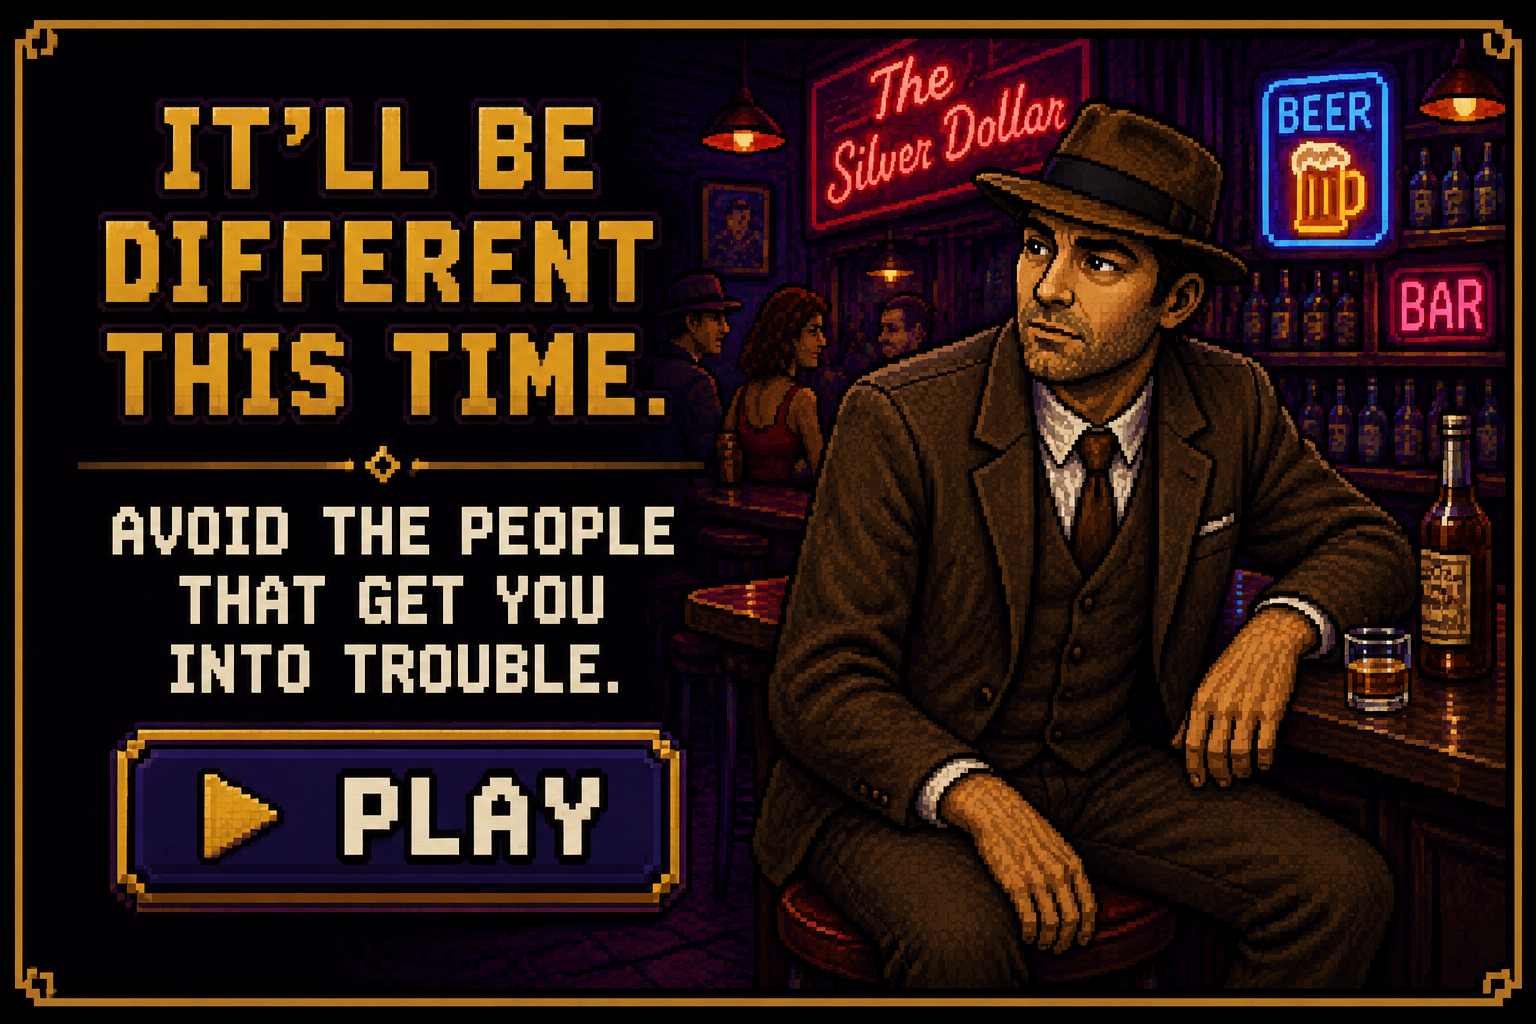
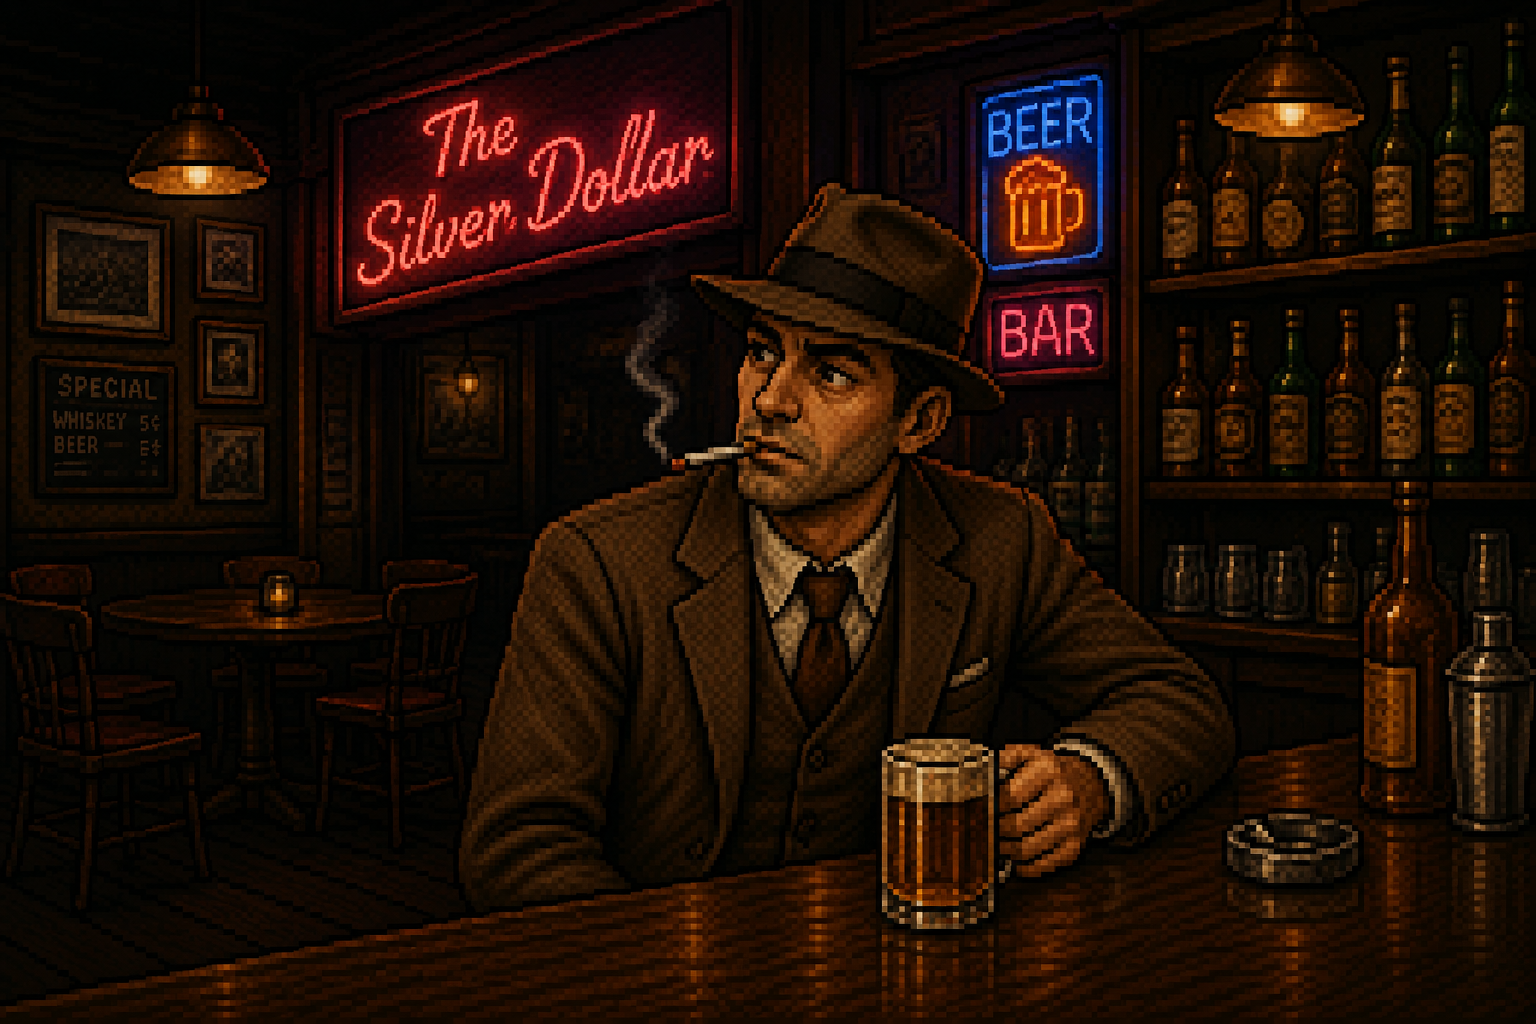
Added Chapter 2 and seamless chapter transitions

diff --git a/game.js b/game.js
@@ -36,11 +36,76 @@
   const currentChapter =
     engine.getChapter(chapterIndex);
 
+  // =====================================
+  // CHAPTER 2 STORY CARDS
+  // Edit this text whenever you want.
+  // =====================================
+
+  if (chapterNumber === 2 && currentChapter) {
+    currentChapter.cards = [
+      {
+        title: "HERE WE GO AGAIN",
+        image: "assets/cards/chapter2-card1.png",
+        text:
+          "Bill's plan didn't work.\n\n" +
+          "Beer turned into uncontrolable drinking,\n" +
+          "and avoiding certain people\n" +
+          "didn't change a thing.\n\n" +
+          "Now Lois is making another call for help."
+      },
+
+      {
+        title: "THE BELLADONNA TREATMENT",
+        image: "assets/cards/chapter2-card2.png",
+        text:
+          "\"Yes... we'll begin immediately.\"\n\n" +
+          "Hydrotherapy...\n" +
+          "Intense exercise...\n" +
+          "Belladonna treatments...\n\n" +
+          "The goal is to calm his nervous system.\n\n" +
+          "When we're finished he'll be a new man.\n"
+      },
+
+      {
+        title: "RUN! RUN! RUN!",
+        image: "assets/cards/chapter2-card3.png",
+        text:
+          "RUN! RUN! RUN!\n\n" +
+          "Now hot bath!\n\n" +
+          "Now cold shower!\n\n" +
+          "Now Belladonna..."
+      },
+
+      {
+        title: "BILL OBJECTS",
+        image: "assets/cards/chapter2-card4.png",
+        text:
+          "Bill:\n" +
+          "\"I don't want to drink Belladonna!\"\n\n" +
+          "Nurse:\n" +
+          "\"Oh, honey...\n\n" +
+          "You don't drink it...\n\n" +
+          "It goes in the other way.\""
+      },
+
+      {
+        title: "THIS IS TORTURE",
+        image: "assets/cards/chapter2-card5.png",
+        text:
+          "This...\n\n" +
+          "is...\n\n" +
+          "TORTURE."
+      }
+    ];
+  }
+
   let width = 0;
   let height = 0;
 
   // splash → title → story → playing → finished
-  let gameState = "splash";
+  const skipIntro = new URLSearchParams(window.location.search).get("skipIntro") === "1";
+
+  let gameState = skipIntro ? "story" : "splash";
 
   // =====================================
   // SPLASH SETTINGS
@@ -1381,6 +1446,10 @@ for (const definition of collectibleDefinitions) {
   // =====================================
 
   function showTitleScreen() {
+    if (skipIntro) {
+      showStoryCards();
+      return;
+    }
     gameState = "title";
   }
 
@@ -1442,6 +1511,11 @@ for (const definition of collectibleDefinitions) {
     nextUrl.searchParams.set(
       "chapter",
       String(nextChapterNumber)
+    );
+
+    nextUrl.searchParams.set(
+      "skipIntro",
+      "1"
     );
 
     window.location.href =
@@ -2227,7 +2301,7 @@ canvas.addEventListener(
         cardImage.complete &&
         cardImage.naturalWidth > 0
       ) {
-        const scale = Math.min(
+        const scale = Math.max(
           imageAreaWidth /
             cardImage.naturalWidth,
 
